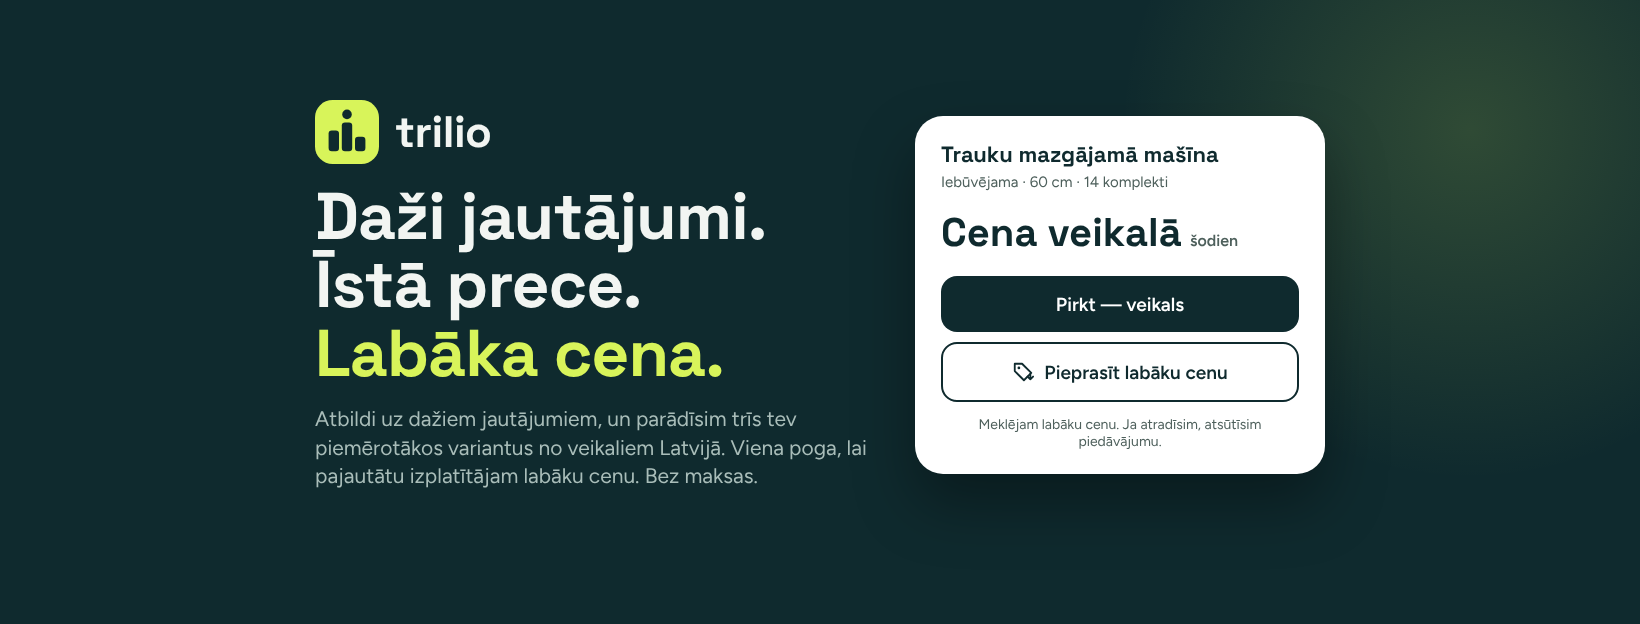
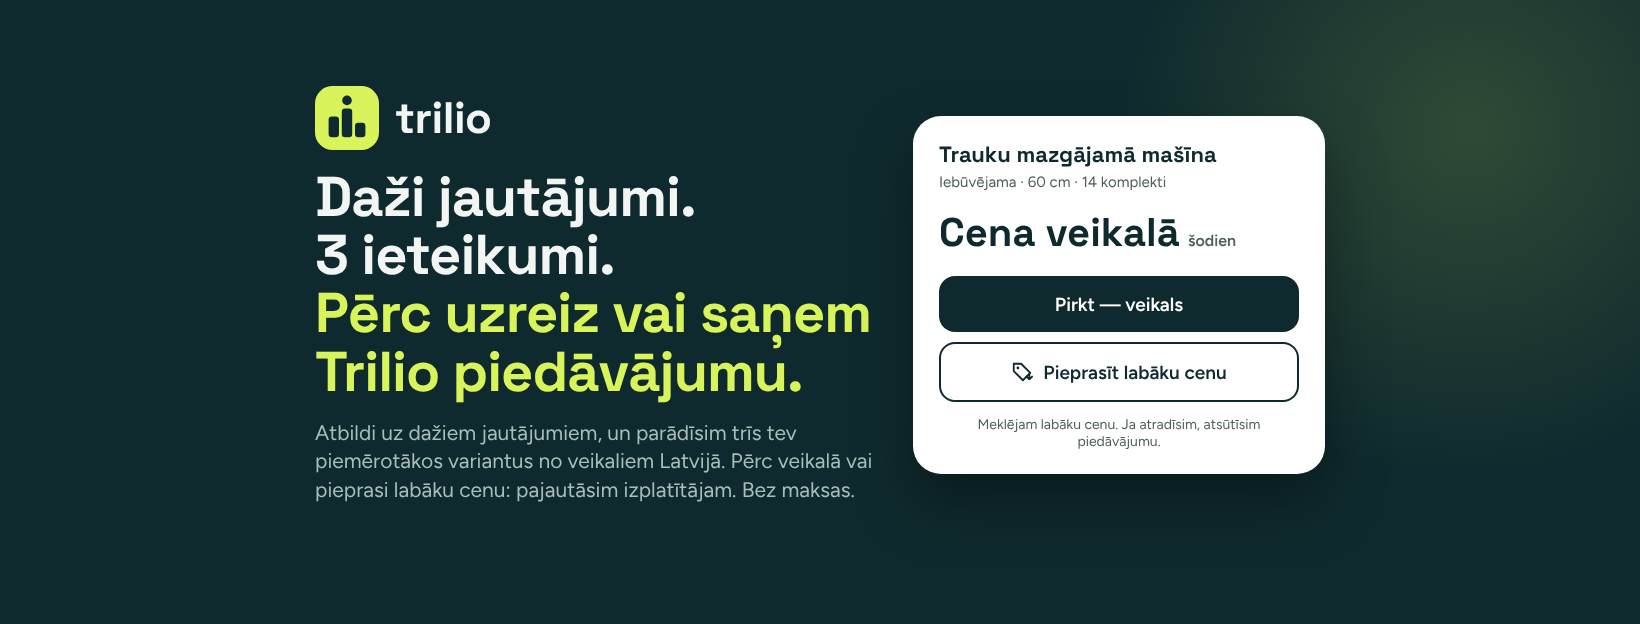
Cover and share image: the owner's line
"Daži jautājumi. 3 ieteikumi. Pērc uzreiz vai saņem Trilio piedāvājumu."

Claude-Session: https://claude.ai/code/session_015HBUkb7GNF5eP3hcTPAs8j

diff --git a/src/app/[locale]/seo.ts b/src/app/[locale]/seo.ts
@@ -9,8 +9,8 @@ import { appBaseUrl } from "@/services/payments";
 // own title spread openGraphBase() to keep the site name, locale and share image.
 
 const OG_ALT: Record<UiLocale, string> = {
-  lv: "Trilio — daži jautājumi. Īstā prece. Labāka cena.",
-  en: "Trilio — a few questions. The right product. A better price.",
+  lv: "Trilio — daži jautājumi, 3 ieteikumi. Pērc uzreiz vai saņem Trilio piedāvājumu.",
+  en: "Trilio — a few questions, 3 picks. Buy now or get a Trilio offer.",
 };
 const OG_LOCALE: Record<UiLocale, string> = { lv: "lv_LV", en: "en_GB" };
 
